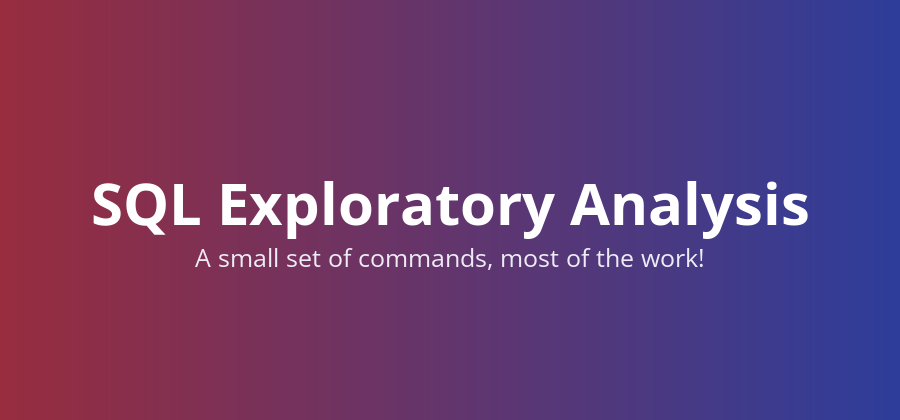
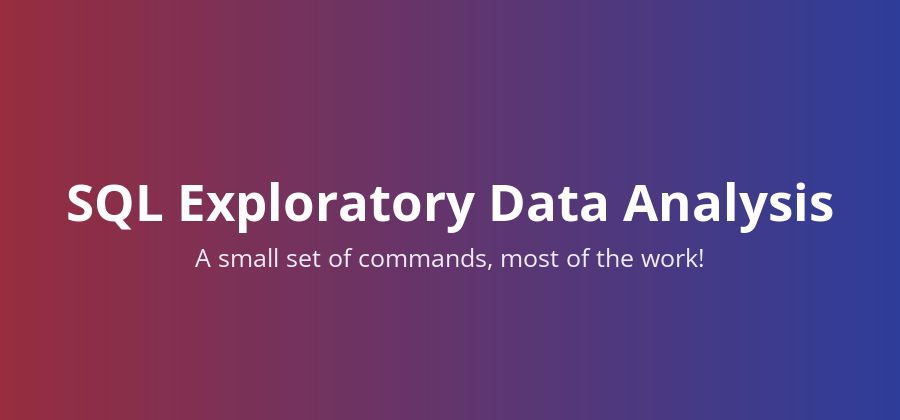
Rebuild the SQL EDA draft on real query output, and align the card
Run all twelve queries against the warehouse and render the real results.
Each of the six cells now opens with a premise and closes with the answer
from the data, and the last cell recaps all six as a list.

Rename the banner and the project card to the page title, and raise the
card title box to hold three lines so the row still lines up.

Changed region(s): [[0.0622, 0.4333, 0.9333, 0.5881]]

diff --git a/sql-eda-draft.html b/sql-eda-draft.html
@@ -11,7 +11,7 @@
     <link rel="stylesheet" href="assets/css/aos.css">
     <link rel="stylesheet" href="assets/css/bootstrap.min.css">
     <link rel="stylesheet" href="assets/css/bootstrap-icons.min.css">
-    <link rel="stylesheet" href="assets/css/style.css?v=13">
+    <link rel="stylesheet" href="assets/css/style.css?v=14">
     <link rel="stylesheet" href="https://cdnjs.cloudflare.com/ajax/libs/highlight.js/11.9.0/styles/atom-one-dark.min.css">
     <!-- Analytics -->
     <script data-goatcounter="https://rafaeltavares.goatcounter.com/count"
@@ -60,6 +60,42 @@
             font-size: 10.5px;
             white-space: nowrap;
             color: var(--text-color);
+        }
+
+        .insight-card .recap-list {
+            margin: 16px 0px 20px 0px;
+            padding: 0;
+            list-style: none;
+        }
+
+        .insight-card .recap-list li {
+            display: flex;
+            flex-wrap: wrap;
+            gap: 4px 12px;
+            padding: 9px 0px;
+            border-bottom: 1px solid rgba(144, 81, 227, .18);
+        }
+
+        .insight-card .recap-list li:last-child {
+            border-bottom: 0;
+        }
+
+        .insight-card .recap-list .q {
+            flex: 0 0 42%;
+            color: var(--text-color);
+            font-size: 15px;
+        }
+
+        .insight-card .recap-list .a {
+            flex: 1;
+            color: var(--muted-text);
+            font-size: 15px;
+        }
+
+        @media (max-width: 575.98px) {
+            .insight-card .recap-list .q {
+                flex: 0 0 100%;
+            }
         }
 
         .insight-card .step-list {
@@ -148,7 +184,7 @@
             <a href="index.html#projects" class="breadcrumb-link"><i class="bi bi-arrow-left"></i> Back to Projects</a>
             <h1 data-aos="fade-up">SQL: Fundamental Exploratory Data Analysis</h1>
             <p class="muted-text">A handful of commands answers most of what a business asks. Each one here ends in a decision.</p>
-            <img src="assets/images/projects/sql-eda-banner-draft.png" class="banner" alt="SQL EDA Notebook" data-aos="fade-up" decoding="async">
+            <img src="assets/images/projects/sql-eda-banner-draft.png?v=2" class="banner" alt="SQL EDA Notebook" data-aos="fade-up" decoding="async">
         </div>
     </section>
 
@@ -405,9 +441,18 @@ ORDER BY total_customers DESC;</code></pre>
                     </div>
 
                     <div class="insight-card">
-                        <h3>Bottom line</h3>
-                        <p>Seventeen commands, six steps, and the exploration ends where it should: with better questions. Revenue sits in one category, 134 products have never sold, no customer is load-bearing, and four out of five customers are too new to judge. Each of those is a reason to run the next analysis.</p>
-                        <p>What the fundamentals cannot settle is whether 2013 was durable and whether the new customers stay. Both need cohort logic and heavier window work, and that is the follow-up project. It starts exactly where this one stops.</p>
+                        <h3>Findings</h3>
+                        <p>Six premises went in, six answers came out, and every query behind them came off the list of seventeen.</p>
+                        <ul class="recap-list">
+                            <li><span class="q">What does one row mean?</span><span class="a">An order line. 60,398 lines, 27,659 orders.</span></li>
+                            <li><span class="q">Is the data clean?</span><span class="a">Keys yes, fields no. 19 dateless rows, 9 broken products.</span></li>
+                            <li><span class="q">How big, and how spread?</span><span class="a">$1,061 an order. Cost from $1 to $2,171.</span></li>
+                            <li><span class="q">Does catalogue size drive revenue?</span><span class="a">No. 97 bike products carry 96.46%.</span></li>
+                            <li><span class="q">Is growth steady?</span><span class="a">No. One 179.8% year between a fall and a stub.</span></li>
+                            <li><span class="q">Who carries the revenue?</span><span class="a">Nobody. And 79% of the base is under a year old.</span></li>
+                        </ul>
+                        <p>Four of those six close a door. The other two open one, and that is the honest output of an exploration: 134 products that never sold, and a customer base too young to read. Both are now specific enough to hand to somebody.</p>
+                        <p>Cohort retention and the cause behind 2013 need heavier window work, and that is the follow-up project. It starts exactly where this one stops.</p>
                     </div>
 
                 </div>

diff --git a/index.html b/index.html
@@ -35,13 +35,13 @@
     <link rel="stylesheet" href="assets/css/aos.css">
     <link rel="stylesheet" href="assets/css/bootstrap.min.css">
     <link rel="stylesheet" href="assets/css/bootstrap-icons.min.css">
-    <link rel="stylesheet" href="assets/css/style.css?v=13">
+    <link rel="stylesheet" href="assets/css/style.css?v=14">
 
     <!-- Preload Important resources -->
     <link rel="preload" href="assets/css/aos.css" as="style" >
     <link rel="preload" href="assets/css/bootstrap.min.css" as="style" />
     <link rel="preload" href="assets/css/bootstrap-icons.min.css" as="style" />
-    <link rel="preload" href="assets/css/style.css?v=13" as="style" />
+    <link rel="preload" href="assets/css/style.css?v=14" as="style" />
 
     <!-- Analytics -->
     <script data-goatcounter="https://rafaeltavares.goatcounter.com/count"
@@ -269,7 +269,7 @@
                                     <div class="icon-badge"><i class="bi bi-database"></i></div>
                                 </div>
                                 <div class="col-7 p-0">
-                                    <a href="sql-eda.html" class="card-title title">SQL EDA</a>
+                                    <a href="sql-eda.html" class="card-title title">SQL: Fundamental Exploratory Data Analysis</a>
                                 </div>
                                 <div class="col-3 align-middle">
                                     <a href="sql-eda.html" class="btn btn-sm primary-bg-btn rounded-5">Visit <i class="bi bi-arrow-up-right-circle-fill"></i></a>
@@ -284,7 +284,7 @@
                             <div class="overlay">
                                 <a href="sql-eda.html" class="btn"><i class="bi bi-arrow-up-right-circle-fill"></i></a>
                             </div>
-                            <img src="assets/images/projects/sql-eda-banner.png" class="card-img-top banner" alt="SQL EDA Banner" loading="lazy" decoding="async">
+                            <img src="assets/images/projects/sql-eda-banner.png?v=2" class="card-img-top banner" alt="SQL: Fundamental Exploratory Data Analysis banner" loading="lazy" decoding="async">
                         </div>
                     </div>
                 </div>

diff --git a/avocado-price-analysis.html b/avocado-price-analysis.html
@@ -10,7 +10,7 @@
     <link rel="stylesheet" href="assets/css/aos.css">
     <link rel="stylesheet" href="assets/css/bootstrap.min.css">
     <link rel="stylesheet" href="assets/css/bootstrap-icons.min.css">
-    <link rel="stylesheet" href="assets/css/style.css?v=13">
+    <link rel="stylesheet" href="assets/css/style.css?v=14">
     <link rel="stylesheet" href="https://cdnjs.cloudflare.com/ajax/libs/highlight.js/11.9.0/styles/atom-one-dark.min.css">
     <!-- Analytics -->
     <script data-goatcounter="https://rafaeltavares.goatcounter.com/count"

diff --git a/credit-card-approval.html b/credit-card-approval.html
@@ -10,7 +10,7 @@
     <link rel="stylesheet" href="assets/css/aos.css">
     <link rel="stylesheet" href="assets/css/bootstrap.min.css">
     <link rel="stylesheet" href="assets/css/bootstrap-icons.min.css">
-    <link rel="stylesheet" href="assets/css/style.css?v=13">
+    <link rel="stylesheet" href="assets/css/style.css?v=14">
     <link rel="stylesheet" href="https://cdnjs.cloudflare.com/ajax/libs/highlight.js/11.9.0/styles/atom-one-dark.min.css">
     <!-- Analytics -->
     <script data-goatcounter="https://rafaeltavares.goatcounter.com/count"

diff --git a/sql-advanced-analytics.html b/sql-advanced-analytics.html
@@ -10,7 +10,7 @@
     <link rel="stylesheet" href="assets/css/aos.css">
     <link rel="stylesheet" href="assets/css/bootstrap.min.css">
     <link rel="stylesheet" href="assets/css/bootstrap-icons.min.css">
-    <link rel="stylesheet" href="assets/css/style.css?v=13">
+    <link rel="stylesheet" href="assets/css/style.css?v=14">
     <link rel="stylesheet" href="https://cdnjs.cloudflare.com/ajax/libs/highlight.js/11.9.0/styles/atom-one-dark.min.css">
     <!-- Analytics -->
     <script data-goatcounter="https://rafaeltavares.goatcounter.com/count"

diff --git a/sql-eda.html b/sql-eda.html
@@ -11,7 +11,7 @@
     <link rel="stylesheet" href="assets/css/aos.css">
     <link rel="stylesheet" href="assets/css/bootstrap.min.css">
     <link rel="stylesheet" href="assets/css/bootstrap-icons.min.css">
-    <link rel="stylesheet" href="assets/css/style.css?v=13">
+    <link rel="stylesheet" href="assets/css/style.css?v=14">
     <link rel="stylesheet" href="https://cdnjs.cloudflare.com/ajax/libs/highlight.js/11.9.0/styles/atom-one-dark.min.css">
     <!-- Analytics -->
     <script data-goatcounter="https://rafaeltavares.goatcounter.com/count"

diff --git a/uber-data-pipeline.html b/uber-data-pipeline.html
@@ -10,7 +10,7 @@
     <link rel="stylesheet" href="assets/css/aos.css">
     <link rel="stylesheet" href="assets/css/bootstrap.min.css">
     <link rel="stylesheet" href="assets/css/bootstrap-icons.min.css">
-    <link rel="stylesheet" href="assets/css/style.css?v=13">
+    <link rel="stylesheet" href="assets/css/style.css?v=14">
     <link rel="stylesheet" href="https://cdnjs.cloudflare.com/ajax/libs/highlight.js/11.9.0/styles/atom-one-dark.min.css">
     <!-- Analytics -->
     <script data-goatcounter="https://rafaeltavares.goatcounter.com/count"

diff --git a/assets/css/style.css b/assets/css/style.css
@@ -781,7 +781,7 @@ a:hover{
 /* Reserve the same header space only when the cards share a row. */
 @media (min-width: 768px) {
     .project-card .title {
-        min-height: 54px;
+        min-height: 81px;
     }
 
     .project-card .stacks {
